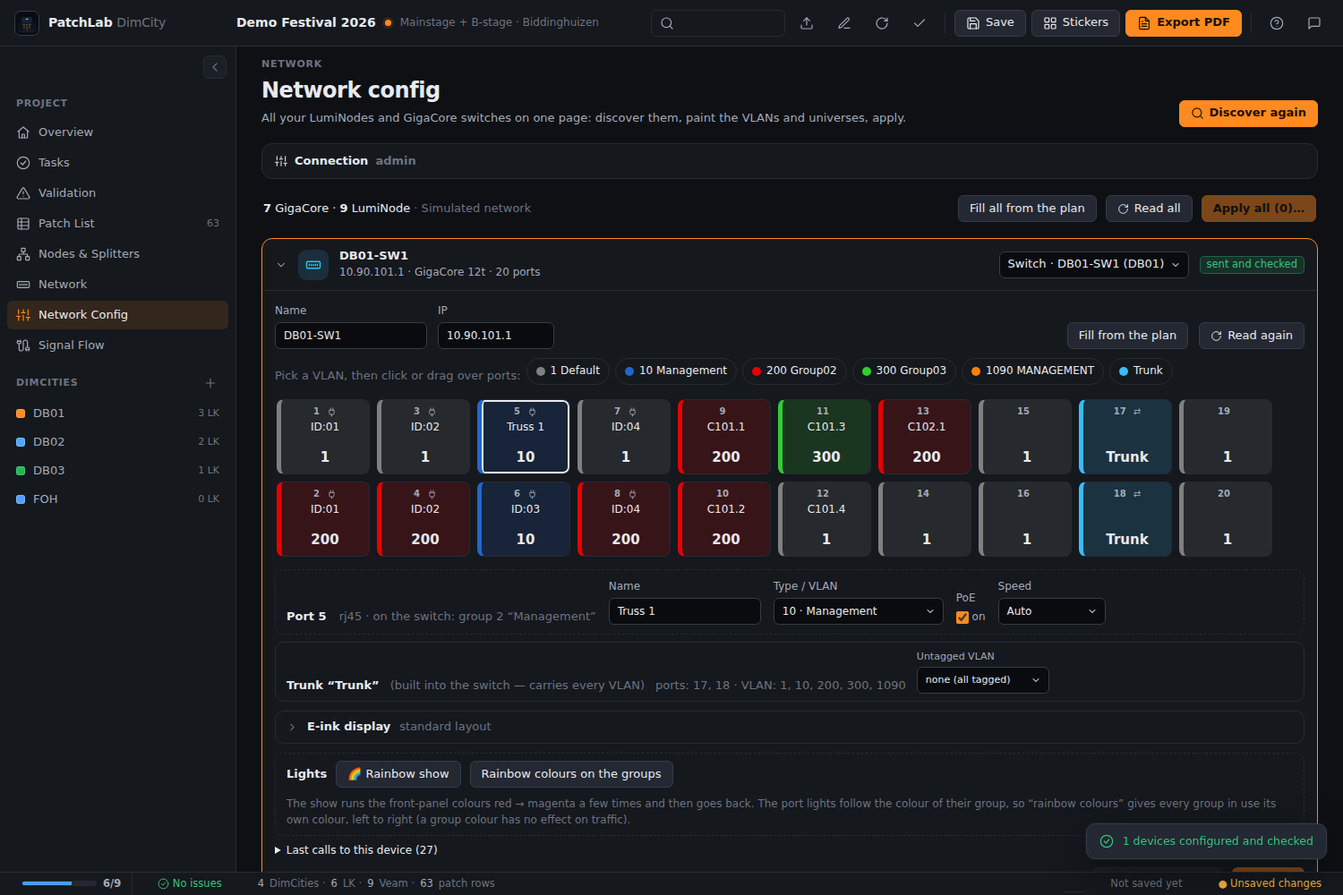
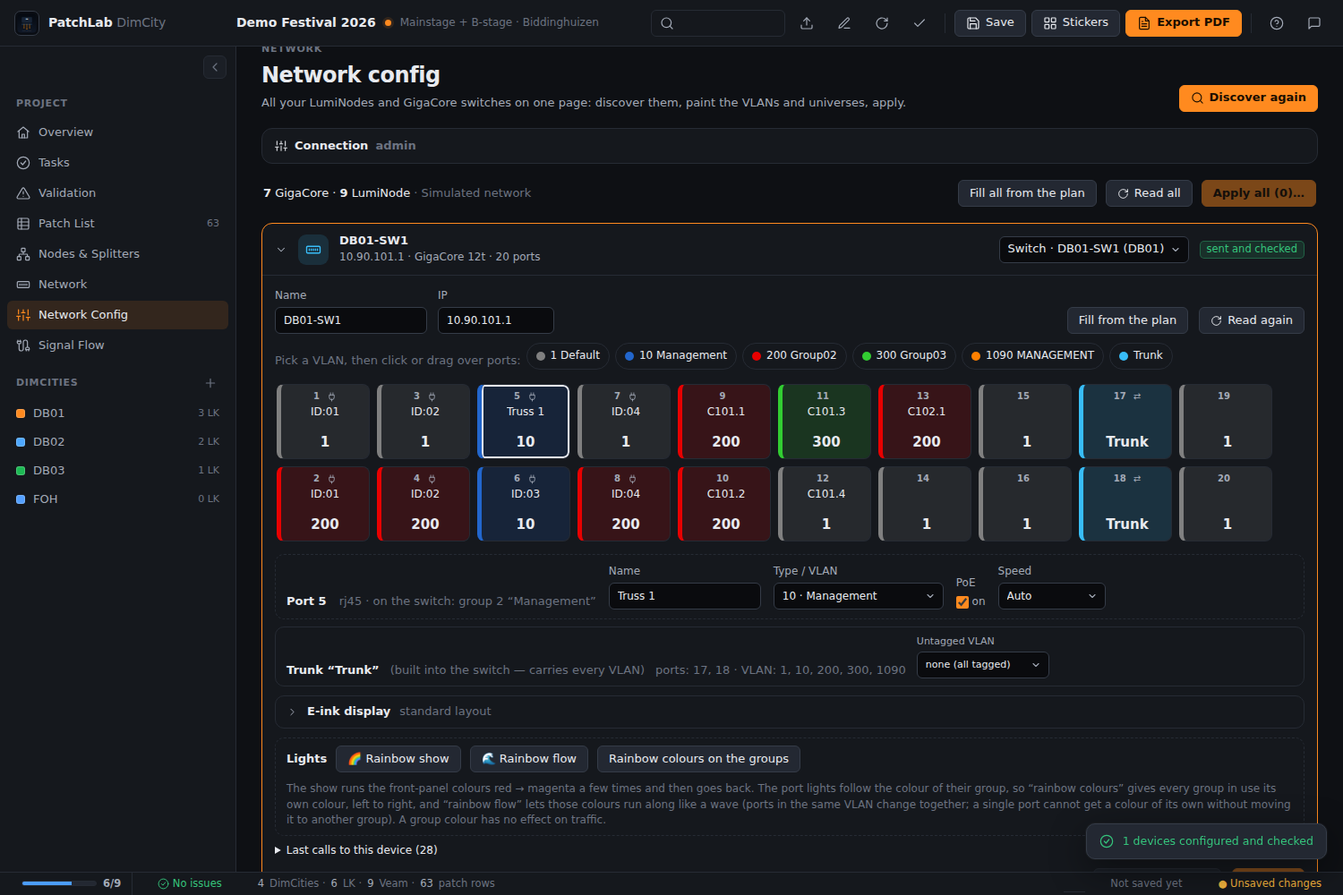
Trunk verification with port-by-port fallback, rainbow flow
Claude-Session: https://claude.ai/code/session_011zJcwnePXPnek3P52mJGYA

diff --git a/core/manual.js b/core/manual.js
@@ -621,11 +621,11 @@ Click a switch to open it. You see its ports as tiles, as on the front panel, ea
 - A VLAN of the plan that the switch does not have yet is marked with a plus; its group is made when you apply.
 - **Fill from the plan** puts the names (from the port plan) and VLANs of the plan on the ports, the fibre ports in the trunk and the device name. The IP address is only changed if you set that in Connection or type it yourself.
 Painted ports have an orange border; nothing is sent yet.
-- **Trunk:** the brush **Trunk** puts a port in the trunk of the switch. A GigaCore has one built-in trunk that carries every VLAN, and PatchLab uses that one (it only makes the VLAN groups of the plan that are still missing). The ports are assigned with the switch's own "assign ports to a trunk" call. Under the ports you see the trunk in words — its ports, the VLANs it carries and the **untagged VLAN**, which you can change there (Fill from the plan sets the management VLAN). After applying, the switch is read back, so a port that did not end up in the trunk shows up as a change again, and under **Last calls to this device** you can see (and copy) every call and the answer of the switch. In the panel of a port you also see what the switch itself says about it.
+- **Trunk:** the brush **Trunk** puts a port in the trunk of the switch. A GigaCore has one built-in trunk that carries every VLAN, and PatchLab uses that one (it only makes the VLAN groups of the plan that are still missing). The ports are assigned with the switch's own "assign ports to a trunk" call. Under the ports you see the trunk in words — its ports, the VLANs it carries and the **untagged VLAN**, which you can change there (Fill from the plan sets the management VLAN). After applying, the switch is read back and checked: if it said "ok" but a port is not in the trunk, PatchLab tries the other documented way (port by port) and tells you what the switch reports. A port that still did not end up in the trunk shows up as a change again, and under **Last calls to this device** you can see (and copy) every call and the answer of the switch. In the panel of a port you also see what the switch itself says about it.
 - **Advanced mode:** a switch in "advanced" configuration mode is also set with its command line, and groups and trunks made through the API may not show correctly. PatchLab warns about that and has a button to switch to Luminex mode (the switch reboots).
 
 ## Lights (GigaCore)
-The port lights of a GigaCore show the colour of the group the port is in, and the front panel can show one colour on all ports. **Rainbow show** runs the front-panel colours red → magenta a few times and then goes back to what it showed. **Rainbow colours on the groups** gives every group in use its own colour of the rainbow, from left to right along the ports, so the lights show a rainbow over the VLANs; **Colours back** restores them. A group colour has no effect on traffic. A single port cannot get a colour of its own: its light follows its group.
+The port lights of a GigaCore show the colour of the group the port is in, and the front panel can show one colour on all ports. **Rainbow show** runs the front-panel colours red → magenta a few times and then goes back to what it showed. **Rainbow flow** gives every group in use its place in the rainbow and lets the whole rainbow turn for a few seconds, so the colours run along the ports like a wave; then the old colours come back. **Rainbow colours on the groups** gives every group in use its own colour of the rainbow, from left to right along the ports, so the lights show a rainbow over the VLANs; **Colours back** restores them. A group colour has no effect on traffic. A single port cannot get a colour of its own: its light follows its group.
 
 ## The e-ink display (GigaCore 20t)
 A switch with an e-ink display shows a section **E-ink display** under its ports. Choose **Text** (type the lines; the size is automatic or fixed) or **Picture** (choose a JPG, PNG or other picture file): PatchLab scales it to the size of the display (read from the display itself), makes it black and white (dithered if you like) and sends it as a PNG. **Send as preview** puts it on the device without touching the display and shows what the device made of it; **Show on the display** applies it; **Standard layout** brings the Luminex layout back; **Remove my picture** clears it. You can also hide the IP address or show the quick-start QR code. If the preview looks wrong, adjust the fit, size or dither and send it again.
@@ -652,11 +652,11 @@ Klik op een switch om hem open te klappen. Je ziet de poorten als tegels, zoals 
 - Een VLAN uit het plan dat de switch nog niet heeft staat met een plusje; de groep wordt aangemaakt bij het toepassen.
 - **Invullen uit het plan** zet de namen (uit het poortplan) en VLAN's van het plan op de poorten, de fibre-poorten in de trunk en de apparaatnaam. Het IP-adres verandert alleen als je dat bij Verbinding aanzet of zelf intypt.
 Geschilderde poorten hebben een oranje rand; er is nog niets gestuurd.
-- **Trunk:** de kwast **Trunk** zet een poort in de trunk van de switch. Een GigaCore heeft één ingebouwde trunk die elke VLAN voert, en PatchLab gebruikt die (het maakt alleen de VLAN-groepen uit het plan aan die nog ontbreken). De poorten worden toegewezen met de eigen aanroep van de switch voor "poorten aan een trunk toewijzen". Onder de poorten zie je de trunk in woorden — zijn poorten, de VLAN's die hij voert en de **untagged VLAN**, die je daar kunt veranderen (Invullen uit het plan zet het beheer-VLAN). Na het toepassen wordt de switch teruggelezen, dus een poort die niet in de trunk terechtkwam verschijnt opnieuw als wijziging, en onder **Laatste aanroepen naar dit apparaat** zie je (en kopieer je) elke aanroep en het antwoord van de switch. In het paneel van een poort zie je ook wat de switch zelf erover zegt.
+- **Trunk:** de kwast **Trunk** zet een poort in de trunk van de switch. Een GigaCore heeft één ingebouwde trunk die elke VLAN voert, en PatchLab gebruikt die (het maakt alleen de VLAN-groepen uit het plan aan die nog ontbreken). De poorten worden toegewezen met de eigen aanroep van de switch voor "poorten aan een trunk toewijzen". Onder de poorten zie je de trunk in woorden — zijn poorten, de VLAN's die hij voert en de **untagged VLAN**, die je daar kunt veranderen (Invullen uit het plan zet het beheer-VLAN). Na het toepassen wordt de switch teruggelezen en gecontroleerd: zei hij "ok" maar zit een poort niet in de trunk, dan probeert PatchLab de andere gedocumenteerde manier (poort voor poort) en vertelt wat de switch meldt. Een poort die dan nog steeds niet in de trunk zit verschijnt opnieuw als wijziging, en onder **Laatste aanroepen naar dit apparaat** zie je (en kopieer je) elke aanroep en het antwoord van de switch. In het paneel van een poort zie je ook wat de switch zelf erover zegt.
 - **Advanced-modus:** een switch in "advanced" configuratiemodus wordt ook met zijn commandoregel ingesteld, en groepen en trunks die via de API gemaakt worden kunnen verkeerd getoond worden. PatchLab waarschuwt daarvoor en heeft een knop om naar Luminex-modus om te zetten (de switch herstart).
 
 ## Lampjes (GigaCore)
-De poortlampjes van een GigaCore tonen de kleur van de groep waar de poort in zit, en het voorpaneel kan één kleur op alle poorten tonen. De **Regenboogshow** laat de kleuren van het voorpaneel een paar keer van rood → magenta lopen en gaat dan terug naar wat het toonde. **Regenboogkleuren op de groepen** geeft elke gebruikte groep een eigen kleur van de regenboog, van links naar rechts langs de poorten, zodat de lampjes een regenboog over de VLAN's tonen; **Kleuren terug** zet ze terug. Een groepskleur heeft geen invloed op het verkeer. Een losse poort kan geen eigen kleur krijgen: zijn lampje volgt zijn groep.
+De poortlampjes van een GigaCore tonen de kleur van de groep waar de poort in zit, en het voorpaneel kan één kleur op alle poorten tonen. De **Regenboogshow** laat de kleuren van het voorpaneel een paar keer van rood → magenta lopen en gaat dan terug naar wat het toonde. De **Regenboogstroom** geeft elke gebruikte groep zijn plek in de regenboog en laat de hele regenboog een paar seconden ronddraaien, zodat de kleuren als een golf langs de poorten lopen; daarna komen de oude kleuren terug. **Regenboogkleuren op de groepen** geeft elke gebruikte groep een eigen kleur van de regenboog, van links naar rechts langs de poorten, zodat de lampjes een regenboog over de VLAN's tonen; **Kleuren terug** zet ze terug. Een groepskleur heeft geen invloed op het verkeer. Een losse poort kan geen eigen kleur krijgen: zijn lampje volgt zijn groep.
 
 ## Het e-ink-display (GigaCore 20t)
 Een switch met een e-ink-display toont onder zijn poorten een onderdeel **E-ink display**. Kies **Tekst** (typ de regels; de grootte is automatisch of vast) of **Afbeelding** (kies een JPG-, PNG- of ander afbeeldingsbestand): PatchLab schaalt het naar het formaat van de display (uitgelezen van de display zelf), maakt het zwart-wit (desgewenst gedithered) en stuurt het als PNG. **Als voorbeeld sturen** zet het op het apparaat zonder de display aan te raken en toont wat het apparaat ervan maakte; **Op de display tonen** past het toe; **Standaardweergave** brengt de Luminex-weergave terug; **Mijn afbeelding wissen** wist het. Je kunt ook het IP-adres verbergen of de quick-start-QR-code tonen. Ziet het voorbeeld er verkeerd uit, pas dan passen, grootte of dither aan en stuur opnieuw.
@@ -976,6 +976,17 @@ Elk verzoek wordt een GitHub-issue, zodat je kunt volgen wat ermee gebeurt.`
 // Release notes per version, newest first. `npm run manual` turns this into CHANGELOG.md and the
 // same text is used as the GitHub release body. Keep entries short: one line per change.
 export const CHANGES = [
+  {
+    version:'0.7.3', date:'2026-10-04',
+    en:[
+      'Trunk checked after every change: when the switch answers ok to "assign ports to a trunk" but a port is not in the trunk, PatchLab tries the other documented way (port by port), logs what the switch reports for each port and tells you if it still did not work.',
+      'Rainbow flow for the switch lights: the rainbow runs along the groups like a wave for a few seconds (stop any time), then the old colours come back. Ports follow the colour of their group, so a single port cannot get its own colour without moving to another group.',
+    ],
+    nl:[
+      'Trunk na elke wijziging gecontroleerd: zegt de switch ok op "poorten aan een trunk toewijzen" maar zit een poort niet in de trunk, dan probeert PatchLab de andere gedocumenteerde manier (poort voor poort), logt wat de switch per poort meldt en zegt het als het nog steeds niet lukte.',
+      'Regenboogstroom voor de lampjes van de switch: de regenboog loopt een paar seconden als een golf langs de groepen (stoppen kan altijd) en daarna komen de oude kleuren terug. Poorten volgen de kleur van hun groep, dus een losse poort kan geen eigen kleur krijgen zonder naar een andere groep te verhuizen.',
+    ]
+  },
   {
     version:'0.7.2', date:'2026-10-04',
     en:[

diff --git a/ui/netconfig.js b/ui/netconfig.js
@@ -196,7 +196,9 @@
         await load(); const h = logged(d); await api.runOps(h, ops);
         if(isSw(d) && Number(C.slot) >= 1 && Number(C.slot) <= 20) await h('PUT', `/api/config/profiles/${Number(C.slot)}/save`);
         const ipOp = ops.find(o => o.kind === 'ip'); if(ipOp){ d.ip = d.dev.ip; if(real()) await new Promise(r => setTimeout(r, 2500)); }
-        d.E = new Map(); d.dev = {}; d.trunkEdit = null; await readDev(d); d.verified = !d.err && changeCount(d) === 0;
+        d.E = new Map(); d.dev = {}; d.trunkEdit = null; await readDev(d);
+        await verifyTrunk(d, ops, h);
+        d.verified = !d.err && changeCount(d) === 0;
       } catch(x) { failed++; d.err = t(`Stopped after an error: ${x.message || x}. Read the device again to see what was applied.`, `Gestopt door een fout: ${x.message || x}. Lees het apparaat opnieuw uit om te zien wat is toegepast.`); }
       d.busy = false; paint();
     }
@@ -218,6 +220,36 @@
     catch(x) { d.err = String(x.message || x); }
     try { await h('PUT', '/api/interface/set_state', { state:typeof before === 'string' && before ? before : 'groups' }); } catch { try { await h('PUT', '/api/interface/set_state', { state:'groups' }); } catch {} }
     C.show = null; paint();
+  }
+
+  // The switch answered "ok" to the trunk call; did the ports really end up in the trunk? If not, try the other documented way (port by port) and say what the switch reports.
+  async function verifyTrunk(d, ops, h){
+    if(!d.cur) return;
+    const asg = ops.filter(o => o.path === '/api/trunks/assign_ports'); if(!asg.length) return;
+    for(const o of asg){
+      let miss = api.trunkMissing(d.cur, o.body.id, o.body.ports);
+      if(!miss.length){ d.log.push({ ok:true, line:`verify: ports ${o.body.ports.join(', ')} are in trunk ${o.body.id}`, res:'' }); continue; }
+      d.log.push({ ok:false, line:`verify: trunk ${o.body.id}`, err:`the switch says ${miss.map(m => `port ${m.port} member_of ${m.says}`).join('; ')}` });
+      try { await api.runOps(h, api.trunkFallbackOps(o.body.id, miss.map(m => m.port).filter(Boolean))); await readDev(d); miss = api.trunkMissing(d.cur, o.body.id, o.body.ports); } catch(x) { d.log.push({ ok:false, line:'port by port', err:String(x.message || x) }); }
+      if(miss.length) d.err = t(`The switch accepted the trunk call but reports ports ${miss.map(m => m.port).join(', ')} are not in trunk ${o.body.id} (it says: ${miss[0].says}). Open “Last calls” and send it to me.`, `De switch accepteerde de trunkaanroep maar meldt dat poorten ${miss.map(m => m.port).join(', ')} niet in trunk ${o.body.id} zitten (hij zegt: ${miss[0].says}). Open “Laatste aanroepen” en stuur het naar mij.`);
+      else d.log.push({ ok:true, line:`verify: port by port worked, ports ${o.body.ports.join(', ')} are in trunk ${o.body.id}`, res:'' });
+    }
+  }
+  // the colours flow along: every group in use keeps its place in the rainbow and the whole rainbow turns, a few seconds, then the old colours come back
+  async function rainbowFlow(d){
+    if(C.flow && C.flow.ip === d.ip){ C.flow.stop = true; return; }
+    const plan = api.rainbowPlan(d.cur); if(!plan.targets.length){ App.ui.toast(t('No groups in use to colour', 'Geen groepen in gebruik om te kleuren'), 'info'); return; }
+    const h = logged(d), run = C.flow = { ip:d.ip, stop:false }; paint(); let err = '';
+    try {
+      await load(); const n = plan.targets.length;
+      for(let f = 0; f < 90 && !run.stop; f++){
+        const results = await Promise.allSettled(plan.targets.map((path, i) => h('PUT', path, api.hslHex(((360 * i / n) + f * 14) % 360))));
+        const bad = results.find(r => r.status === 'rejected'); if(bad){ err = String(bad.reason?.message || bad.reason); break; }
+        await sleep(160);
+      }
+    } catch(x) { err = String(x.message || x); }
+    try { await Promise.allSettled(plan.before.map(b => h('PUT', b.path, b.color))); } catch {}
+    C.flow = null; if(err) d.err = err; await readDev(d, true); paint();
   }
   async function rainbowColours(d, undo){
     d.busy = true; d.err = ''; paint();
@@ -253,9 +285,10 @@
   }
   const lightsHtml = d => `<div class="nc-lights"><b>${t('Lights', 'Lampjes')}</b>
     <button data-rainbow="${esc(d.ip)}" class="${C.show?.ip === d.ip ? 'primary' : ''}">${C.show?.ip === d.ip ? '■ ' + t('Stop', 'Stop') : '🌈 ' + t('Rainbow show', 'Regenboogshow')}</button>
+    <button data-rainbowf="${esc(d.ip)}" class="${C.flow?.ip === d.ip ? 'primary' : ''}">${C.flow?.ip === d.ip ? '■ ' + t('Stop', 'Stop') : '🌊 ' + t('Rainbow flow', 'Regenboogstroom')}</button>
     <button data-rainbowc="${esc(d.ip)}" ${d.busy ? 'disabled' : ''}>${t('Rainbow colours on the groups', 'Regenboogkleuren op de groepen')}</button>
     ${d.rainbowBefore ? `<button data-rainbowu="${esc(d.ip)}">${t('Colours back', 'Kleuren terug')}</button>` : ''}
-    <span class="subtle" style="font-size:12px">${t('The show runs the front-panel colours red → magenta a few times and then goes back. The port lights follow the colour of their group, so “rainbow colours” gives every group in use its own colour, left to right (a group colour has no effect on traffic).', 'De show laat de kleuren van het voorpaneel een paar keer van rood → magenta lopen en gaat dan terug. De poortlampjes volgen de kleur van hun groep, dus “regenboogkleuren” geeft elke gebruikte groep een eigen kleur, van links naar rechts (een groepskleur heeft geen invloed op het verkeer).')}</span></div>`;
+    <span class="subtle" style="font-size:12px">${t('The show runs the front-panel colours red → magenta a few times and then goes back. The port lights follow the colour of their group, so “rainbow colours” gives every group in use its own colour, left to right, and “rainbow flow” lets those colours run along like a wave (ports in the same VLAN change together; a single port cannot get a colour of its own without moving it to another group). A group colour has no effect on traffic.', 'De show laat de kleuren van het voorpaneel een paar keer van rood → magenta lopen en gaat dan terug. De poortlampjes volgen de kleur van hun groep, dus “regenboogkleuren” geeft elke gebruikte groep een eigen kleur, van links naar rechts, en de “regenboogstroom” laat die kleuren als een golf langs lopen (poorten in dezelfde VLAN veranderen samen; een losse poort kan geen eigen kleur krijgen zonder naar een andere groep te verhuizen). Een groepskleur heeft geen invloed op het verkeer.')}</span></div>`;
   const logHtml = d => (d.log && d.log.length) ? `<details class="nc-log"><summary>${t('Last calls to this device', 'Laatste aanroepen naar dit apparaat')} (${d.log.length})</summary><button data-copylog="${esc(d.ip)}">${t('Copy', 'Kopieer')}</button><pre>${d.log.slice(-40).map(l => `${l.ok ? '✓' : '✗'} ${esc(l.line)}${l.ok ? (l.res ? '  → ' + esc(l.res) : '') : '  → ' + esc(l.err)}`).join('\n')}</pre></details>` : '';
 
   // ---------- the e-ink display of a GigaCore 20t ----------
@@ -479,6 +512,7 @@
     qa('[data-bklass]').forEach(i => i.onchange = () => { const d = D(i.closest('.nc-card').querySelector('[data-toggle]').dataset.toggle); d.brush = { ...(d.brush || {}), klass:i.value || undefined, auto:d.brush?.auto !== false }; paint(); });
     qa('[data-trunkun]').forEach(i => i.onchange = () => { const d = D(i.closest('.nc-card').querySelector('[data-toggle]').dataset.toggle); d.trunkEdit = { tid:Number(i.dataset.trunkun), vid:Number(i.value) || 0 }; paint(); });
     qa('[data-rainbow]').forEach(b => b.onclick = () => rainbowShow(D(b.dataset.rainbow)));
+    qa('[data-rainbowf]').forEach(b => b.onclick = () => rainbowFlow(D(b.dataset.rainbowf)));
     qa('[data-rainbowc]').forEach(b => b.onclick = () => rainbowColours(D(b.dataset.rainbowc), false));
     qa('[data-rainbowu]').forEach(b => b.onclick = () => rainbowColours(D(b.dataset.rainbowu), true));
     qa('[data-lxmode]').forEach(b => b.onclick = () => luminexMode(D(b.dataset.lxmode)));

diff --git a/core/luminex-api.js b/core/luminex-api.js
@@ -122,6 +122,13 @@ export function trunkInfo(cur, tid){
   const un = tr.untagged_group ? g(tr.untagged_group) : null;
   return { id: tid, name: tr.name, predefined: !!tr.predefined, vlans: (tr.groups || []).map(x => g(x)?.vid ?? x), untaggedVid: un?.vid ?? null, untaggedGroup: tr.untagged_group ?? 0, ports: cur.ports.filter(p => p.member_of?.type === 'trunk' && p.member_of.id === tid).map(p => p.port_number) };
 }
+// After a trunk change: which of the ports that should sit in the trunk do not (according to the switch), and what it says about them
+export function trunkMissing(cur, tid, ports){
+  return ports.map(n => cur.ports.find(p => p.port_number === n)).filter(p => !p || p.member_of?.type !== 'trunk' || p.member_of.id !== tid).map(p => ({ port: p?.port_number, says: p ? JSON.stringify(p.member_of ?? null) : 'no such port' }));
+}
+// the other documented way into a trunk: each port's own group membership
+export const trunkFallbackOps = (tid, ports) => ports.map(n => ({ method: 'PUT', path: `/api/ports/port/${n}/member_of`, body: { type: 'trunk', id: tid }, text: `Port ${n}: member of trunk ${tid} (port by port)`, kind: 'config' }));
+
 // change which VLAN is untagged on a trunk (vid = a VLAN id, or null / 0 for none)
 export function gigacoreTrunkPlan(cur, tid, untaggedVid){
   const tr = cur.trunks.find(t => t.trunk_id === tid); if(!tr) return { ops: [], notes: [] };
@@ -211,13 +218,13 @@ export const RAINBOW_STATES = ['all_red', 'all_yellow', 'all_green', 'all_cyan',
 export function rainbowPlan(cur){
   const order = []; const seen = new Set();
   for(const p of [...cur.ports].sort((a, b) => a.port_number - b.port_number)){ const m = p.member_of; if(!m?.type || m.type === 'none') continue; const k = `${m.type}:${m.id}`; if(!seen.has(k)){ seen.add(k); order.push(m); } }
-  const ops = [], before = [], n = order.length;
+  const ops = [], before = [], n = order.length, targets = [];
   order.forEach((m, i) => {
     const color = hslHex(Math.round(300 * i / Math.max(1, n - 1)));          // red … magenta, never wrapping back to red
-    if(m.type === 'group'){ const g = cur.groups.find(x => x.group_id === m.id); if(g){ before.push({ path: `/api/groups/group/${g.group_id}/color`, color: g.color }); ops.push({ method: 'PUT', path: `/api/groups/group/${g.group_id}/color`, body: color, text: `Group ${g.group_id} “${g.name}”: colour → ${color}`, kind: 'config', soft: true }); } }
-    else if(m.type === 'trunk'){ const t = cur.trunks.find(x => x.trunk_id === m.id); if(t && !t.predefined){ before.push({ path: `/api/trunks/trunk/${t.trunk_id}/color`, color: t.color }); ops.push({ method: 'PUT', path: `/api/trunks/trunk/${t.trunk_id}/color`, body: color, text: `Trunk “${t.name}”: colour → ${color}`, kind: 'config', soft: true }); } }
+    if(m.type === 'group'){ const g = cur.groups.find(x => x.group_id === m.id); if(g){ before.push({ path: `/api/groups/group/${g.group_id}/color`, color: g.color }); targets.push(`/api/groups/group/${g.group_id}/color`); ops.push({ method: 'PUT', path: `/api/groups/group/${g.group_id}/color`, body: color, text: `Group ${g.group_id} “${g.name}”: colour → ${color}`, kind: 'config', soft: true }); } }
+    else if(m.type === 'trunk'){ const t = cur.trunks.find(x => x.trunk_id === m.id); if(t && !t.predefined){ before.push({ path: `/api/trunks/trunk/${t.trunk_id}/color`, color: t.color }); targets.push(`/api/trunks/trunk/${t.trunk_id}/color`); ops.push({ method: 'PUT', path: `/api/trunks/trunk/${t.trunk_id}/color`, body: color, text: `Trunk “${t.name}”: colour → ${color}`, kind: 'config', soft: true }); } }
   });
-  return { ops, before };
+  return { ops, before, targets };
 }
 
 // ---- the e-ink display of a GigaCore 20t: show your own picture or text ----

diff --git a/core/luminex-sim.js b/core/luminex-sim.js
@@ -5,7 +5,7 @@ const clone = x => JSON.parse(JSON.stringify(x));
 
 // a white 250 x 122 PNG, what the e-ink display of a 20t could look like
[1 lines of base64/hex data omitted]
-export function gigacoreSim({ name = 'GigaCore', ip = '192.168.1.10', ports = 12, mode = 'luminex', eink = false } = {}){
+export function gigacoreSim({ name = 'GigaCore', ip = '192.168.1.10', ports = 12, mode = 'luminex', eink = false, ignoreAssign = false } = {}){
   const st = {
     device: { name, model: 'GigaCore 12t', api_version: '1.5.0' },
     groups: [{ group_id: 1, name: 'Default', vid: 1, color: '#808080', predefined: true }, { group_id: 2, name: 'Management', vid: 10, color: '#2266cc', predefined: true }],
@@ -58,6 +58,7 @@ export function gigacoreSim({ name = 'GigaCore', ip = '192.168.1.10', ports = 12
     }
     if(path === '/api/trunks/assign_ports' && method === 'PUT'){
       if(!st.trunks.some(t => t.trunk_id === body?.id) || !Array.isArray(body.ports)) throw err(400, 'unknown trunk / ports');
+      if(ignoreAssign || st.ignoreAssign) return {};              // a switch that says ok and does nothing
       for(const q of st.ports){ const inList = body.ports.includes(q.port_number); if(inList) q.member_of = { type: 'trunk', id: body.id }; else if(q.member_of.type === 'trunk' && q.member_of.id === body.id) q.member_of = { type: 'group', id: 1 }; }
       return null;
     }

diff --git a/docs/USER_MANUAL.md b/docs/USER_MANUAL.md
@@ -400,11 +400,11 @@ Click a switch to open it. You see its ports as tiles, as on the front panel, ea
 - A VLAN of the plan that the switch does not have yet is marked with a plus; its group is made when you apply.
 - **Fill from the plan** puts the names (from the port plan) and VLANs of the plan on the ports, the fibre ports in the trunk and the device name. The IP address is only changed if you set that in Connection or type it yourself.
 Painted ports have an orange border; nothing is sent yet.
-- **Trunk:** the brush **Trunk** puts a port in the trunk of the switch. A GigaCore has one built-in trunk that carries every VLAN, and PatchLab uses that one (it only makes the VLAN groups of the plan that are still missing). The ports are assigned with the switch's own "assign ports to a trunk" call. Under the ports you see the trunk in words — its ports, the VLANs it carries and the **untagged VLAN**, which you can change there (Fill from the plan sets the management VLAN). After applying, the switch is read back, so a port that did not end up in the trunk shows up as a change again, and under **Last calls to this device** you can see (and copy) every call and the answer of the switch. In the panel of a port you also see what the switch itself says about it.
+- **Trunk:** the brush **Trunk** puts a port in the trunk of the switch. A GigaCore has one built-in trunk that carries every VLAN, and PatchLab uses that one (it only makes the VLAN groups of the plan that are still missing). The ports are assigned with the switch's own "assign ports to a trunk" call. Under the ports you see the trunk in words — its ports, the VLANs it carries and the **untagged VLAN**, which you can change there (Fill from the plan sets the management VLAN). After applying, the switch is read back and checked: if it said "ok" but a port is not in the trunk, PatchLab tries the other documented way (port by port) and tells you what the switch reports. A port that still did not end up in the trunk shows up as a change again, and under **Last calls to this device** you can see (and copy) every call and the answer of the switch. In the panel of a port you also see what the switch itself says about it.
 - **Advanced mode:** a switch in "advanced" configuration mode is also set with its command line, and groups and trunks made through the API may not show correctly. PatchLab warns about that and has a button to switch to Luminex mode (the switch reboots).
 
 ### Lights (GigaCore)
-The port lights of a GigaCore show the colour of the group the port is in, and the front panel can show one colour on all ports. **Rainbow show** runs the front-panel colours red → magenta a few times and then goes back to what it showed. **Rainbow colours on the groups** gives every group in use its own colour of the rainbow, from left to right along the ports, so the lights show a rainbow over the VLANs; **Colours back** restores them. A group colour has no effect on traffic. A single port cannot get a colour of its own: its light follows its group.
+The port lights of a GigaCore show the colour of the group the port is in, and the front panel can show one colour on all ports. **Rainbow show** runs the front-panel colours red → magenta a few times and then goes back to what it showed. **Rainbow flow** gives every group in use its place in the rainbow and lets the whole rainbow turn for a few seconds, so the colours run along the ports like a wave; then the old colours come back. **Rainbow colours on the groups** gives every group in use its own colour of the rainbow, from left to right along the ports, so the lights show a rainbow over the VLANs; **Colours back** restores them. A group colour has no effect on traffic. A single port cannot get a colour of its own: its light follows its group.
 
 ### The e-ink display (GigaCore 20t)
 A switch with an e-ink display shows a section **E-ink display** under its ports. Choose **Text** (type the lines; the size is automatic or fixed) or **Picture** (choose a JPG, PNG or other picture file): PatchLab scales it to the size of the display (read from the display itself), makes it black and white (dithered if you like) and sends it as a PNG. **Send as preview** puts it on the device without touching the display and shows what the device made of it; **Show on the display** applies it; **Standard layout** brings the Luminex layout back; **Remove my picture** clears it. You can also hide the IP address or show the quick-start QR code. If the preview looks wrong, adjust the fit, size or dither and send it again.
@@ -595,6 +595,10 @@ Every request becomes a GitHub issue, so you can follow what happens with it.
 
 <a id="whats-new"></a>
 ## What's new
+
+### Version 0.7.3 — 2026-10-04
+- Trunk checked after every change: when the switch answers ok to "assign ports to a trunk" but a port is not in the trunk, PatchLab tries the other documented way (port by port), logs what the switch reports for each port and tells you if it still did not work.
+- Rainbow flow for the switch lights: the rainbow runs along the groups like a wave for a few seconds (stop any time), then the old colours come back. Ports follow the colour of their group, so a single port cannot get its own colour without moving to another group.
 
 ### Version 0.7.2 — 2026-10-04
 - Trunk reworked: fibre ports now go into the switch's own built-in trunk (which carries every VLAN) instead of a trunk of ours, so it behaves like a trunk made on the switch itself. The trunk is shown in words under the ports (ports, VLANs, untagged VLAN, changeable), the page recognises whether a switch lists group numbers or VLAN ids, warns about advanced mode (with a button to go to Luminex mode), and shows what the switch itself says per port.
@@ -1126,11 +1130,11 @@ Klik op een switch om hem open te klappen. Je ziet de poorten als tegels, zoals 
 - Een VLAN uit het plan dat de switch nog niet heeft staat met een plusje; de groep wordt aangemaakt bij het toepassen.
 - **Invullen uit het plan** zet de namen (uit het poortplan) en VLAN's van het plan op de poorten, de fibre-poorten in de trunk en de apparaatnaam. Het IP-adres verandert alleen als je dat bij Verbinding aanzet of zelf intypt.
 Geschilderde poorten hebben een oranje rand; er is nog niets gestuurd.
-- **Trunk:** de kwast **Trunk** zet een poort in de trunk van de switch. Een GigaCore heeft één ingebouwde trunk die elke VLAN voert, en PatchLab gebruikt die (het maakt alleen de VLAN-groepen uit het plan aan die nog ontbreken). De poorten worden toegewezen met de eigen aanroep van de switch voor "poorten aan een trunk toewijzen". Onder de poorten zie je de trunk in woorden — zijn poorten, de VLAN's die hij voert en de **untagged VLAN**, die je daar kunt veranderen (Invullen uit het plan zet het beheer-VLAN). Na het toepassen wordt de switch teruggelezen, dus een poort die niet in de trunk terechtkwam verschijnt opnieuw als wijziging, en onder **Laatste aanroepen naar dit apparaat** zie je (en kopieer je) elke aanroep en het antwoord van de switch. In het paneel van een poort zie je ook wat de switch zelf erover zegt.
+- **Trunk:** de kwast **Trunk** zet een poort in de trunk van de switch. Een GigaCore heeft één ingebouwde trunk die elke VLAN voert, en PatchLab gebruikt die (het maakt alleen de VLAN-groepen uit het plan aan die nog ontbreken). De poorten worden toegewezen met de eigen aanroep van de switch voor "poorten aan een trunk toewijzen". Onder de poorten zie je de trunk in woorden — zijn poorten, de VLAN's die hij voert en de **untagged VLAN**, die je daar kunt veranderen (Invullen uit het plan zet het beheer-VLAN). Na het toepassen wordt de switch teruggelezen en gecontroleerd: zei hij "ok" maar zit een poort niet in de trunk, dan probeert PatchLab de andere gedocumenteerde manier (poort voor poort) en vertelt wat de switch meldt. Een poort die dan nog steeds niet in de trunk zit verschijnt opnieuw als wijziging, en onder **Laatste aanroepen naar dit apparaat** zie je (en kopieer je) elke aanroep en het antwoord van de switch. In het paneel van een poort zie je ook wat de switch zelf erover zegt.
 - **Advanced-modus:** een switch in "advanced" configuratiemodus wordt ook met zijn commandoregel ingesteld, en groepen en trunks die via de API gemaakt worden kunnen verkeerd getoond worden. PatchLab waarschuwt daarvoor en heeft een knop om naar Luminex-modus om te zetten (de switch herstart).
 
 ### Lampjes (GigaCore)
-De poortlampjes van een GigaCore tonen de kleur van de groep waar de poort in zit, en het voorpaneel kan één kleur op alle poorten tonen. De **Regenboogshow** laat de kleuren van het voorpaneel een paar keer van rood → magenta lopen en gaat dan terug naar wat het toonde. **Regenboogkleuren op de groepen** geeft elke gebruikte groep een eigen kleur van de regenboog, van links naar rechts langs de poorten, zodat de lampjes een regenboog over de VLAN's tonen; **Kleuren terug** zet ze terug. Een groepskleur heeft geen invloed op het verkeer. Een losse poort kan geen eigen kleur krijgen: zijn lampje volgt zijn groep.
+De poortlampjes van een GigaCore tonen de kleur van de groep waar de poort in zit, en het voorpaneel kan één kleur op alle poorten tonen. De **Regenboogshow** laat de kleuren van het voorpaneel een paar keer van rood → magenta lopen en gaat dan terug naar wat het toonde. De **Regenboogstroom** geeft elke gebruikte groep zijn plek in de regenboog en laat de hele regenboog een paar seconden ronddraaien, zodat de kleuren als een golf langs de poorten lopen; daarna komen de oude kleuren terug. **Regenboogkleuren op de groepen** geeft elke gebruikte groep een eigen kleur van de regenboog, van links naar rechts langs de poorten, zodat de lampjes een regenboog over de VLAN's tonen; **Kleuren terug** zet ze terug. Een groepskleur heeft geen invloed op het verkeer. Een losse poort kan geen eigen kleur krijgen: zijn lampje volgt zijn groep.
 
 ### Het e-ink-display (GigaCore 20t)
 Een switch met een e-ink-display toont onder zijn poorten een onderdeel **E-ink display**. Kies **Tekst** (typ de regels; de grootte is automatisch of vast) of **Afbeelding** (kies een JPG-, PNG- of ander afbeeldingsbestand): PatchLab schaalt het naar het formaat van de display (uitgelezen van de display zelf), maakt het zwart-wit (desgewenst gedithered) en stuurt het als PNG. **Als voorbeeld sturen** zet het op het apparaat zonder de display aan te raken en toont wat het apparaat ervan maakte; **Op de display tonen** past het toe; **Standaardweergave** brengt de Luminex-weergave terug; **Mijn afbeelding wissen** wist het. Je kunt ook het IP-adres verbergen of de quick-start-QR-code tonen. Ziet het voorbeeld er verkeerd uit, pas dan passen, grootte of dither aan en stuur opnieuw.
@@ -1321,6 +1325,10 @@ Elk verzoek wordt een GitHub-issue, zodat je kunt volgen wat ermee gebeurt.
 
 <a id="whats-new-nl"></a>
 ## Wat is er nieuw
+
+### Versie 0.7.3 — 2026-10-04
+- Trunk na elke wijziging gecontroleerd: zegt de switch ok op "poorten aan een trunk toewijzen" maar zit een poort niet in de trunk, dan probeert PatchLab de andere gedocumenteerde manier (poort voor poort), logt wat de switch per poort meldt en zegt het als het nog steeds niet lukte.
+- Regenboogstroom voor de lampjes van de switch: de regenboog loopt een paar seconden als een golf langs de groepen (stoppen kan altijd) en daarna komen de oude kleuren terug. Poorten volgen de kleur van hun groep, dus een losse poort kan geen eigen kleur krijgen zonder naar een andere groep te verhuizen.
 
 ### Versie 0.7.2 — 2026-10-04
 - Trunk herzien: fibre-poorten gaan nu in de ingebouwde trunk van de switch zelf (die elke VLAN voert) in plaats van een trunk van ons, zodat het zich gedraagt als een trunk die op de switch zelf is gemaakt. De trunk wordt onder de poorten in woorden getoond (poorten, VLAN's, untagged VLAN, aanpasbaar), de pagina herkent of een switch groepsnummers of VLAN-id's opsomt, waarschuwt voor advanced-modus (met een knop naar Luminex-modus) en toont per poort wat de switch zelf zegt.

diff --git a/CHANGELOG.md b/CHANGELOG.md
@@ -4,6 +4,18 @@
 
 All notable changes to DimCity PatchLab. The entry of a version is also the text of its GitHub release.
 
+## 0.7.3 — 2026-10-04
+
+- Trunk checked after every change: when the switch answers ok to "assign ports to a trunk" but a port is not in the trunk, PatchLab tries the other documented way (port by port), logs what the switch reports for each port and tells you if it still did not work.
+- Rainbow flow for the switch lights: the rainbow runs along the groups like a wave for a few seconds (stop any time), then the old colours come back. Ports follow the colour of their group, so a single port cannot get its own colour without moving to another group.
+
+<details><summary>Nederlands</summary>
+
+- Trunk na elke wijziging gecontroleerd: zegt de switch ok op "poorten aan een trunk toewijzen" maar zit een poort niet in de trunk, dan probeert PatchLab de andere gedocumenteerde manier (poort voor poort), logt wat de switch per poort meldt en zegt het als het nog steeds niet lukte.
+- Regenboogstroom voor de lampjes van de switch: de regenboog loopt een paar seconden als een golf langs de groepen (stoppen kan altijd) en daarna komen de oude kleuren terug. Poorten volgen de kleur van hun groep, dus een losse poort kan geen eigen kleur krijgen zonder naar een andere groep te verhuizen.
+
+</details>
+
 ## 0.7.2 — 2026-10-04
 
 - Trunk reworked: fibre ports now go into the switch's own built-in trunk (which carries every VLAN) instead of a trunk of ours, so it behaves like a trunk made on the switch itself. The trunk is shown in words under the ports (ports, VLANs, untagged VLAN, changeable), the page recognises whether a switch lists group numbers or VLAN ids, warns about advanced mode (with a button to go to Luminex mode), and shows what the switch itself says per port.
